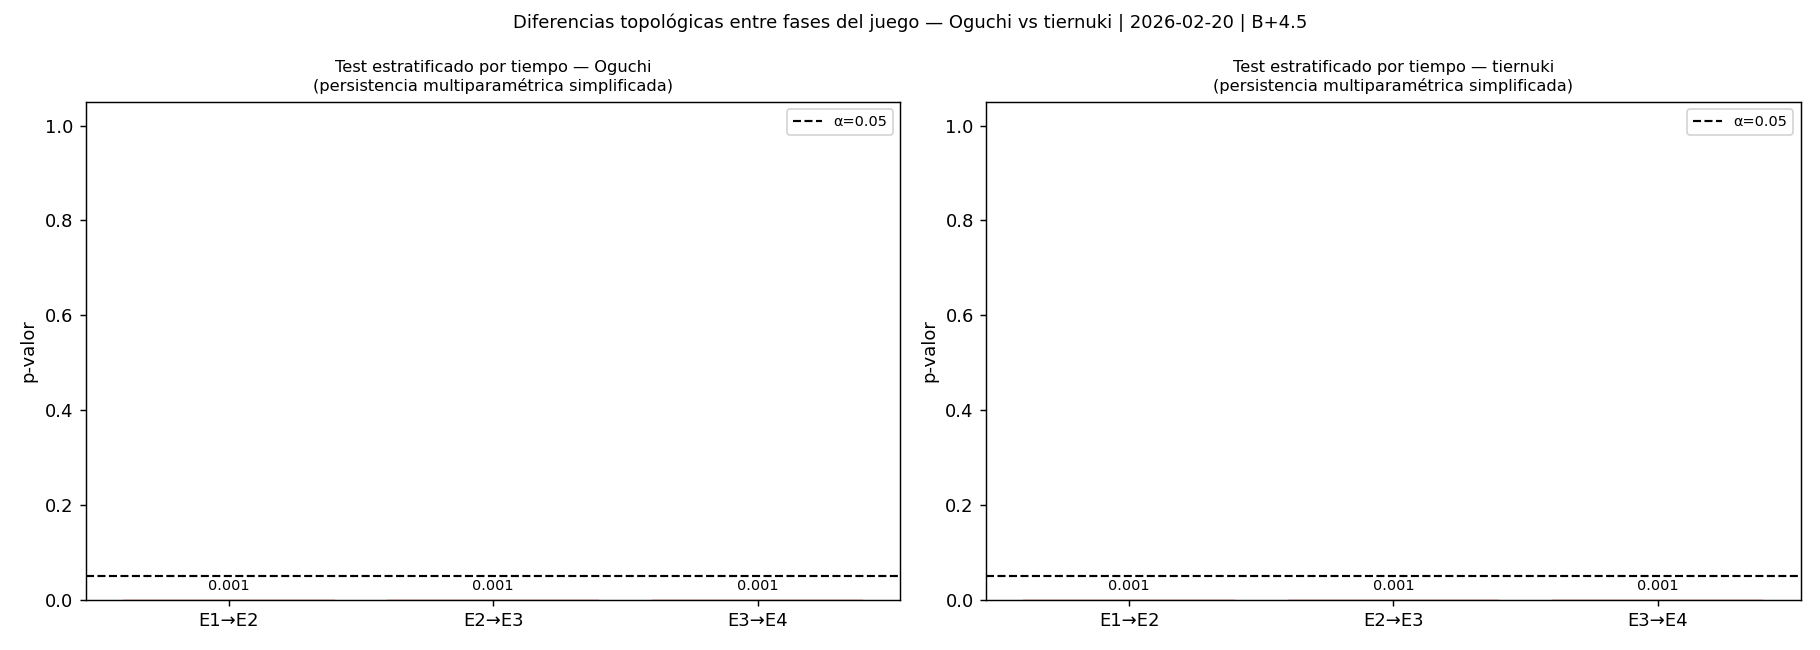
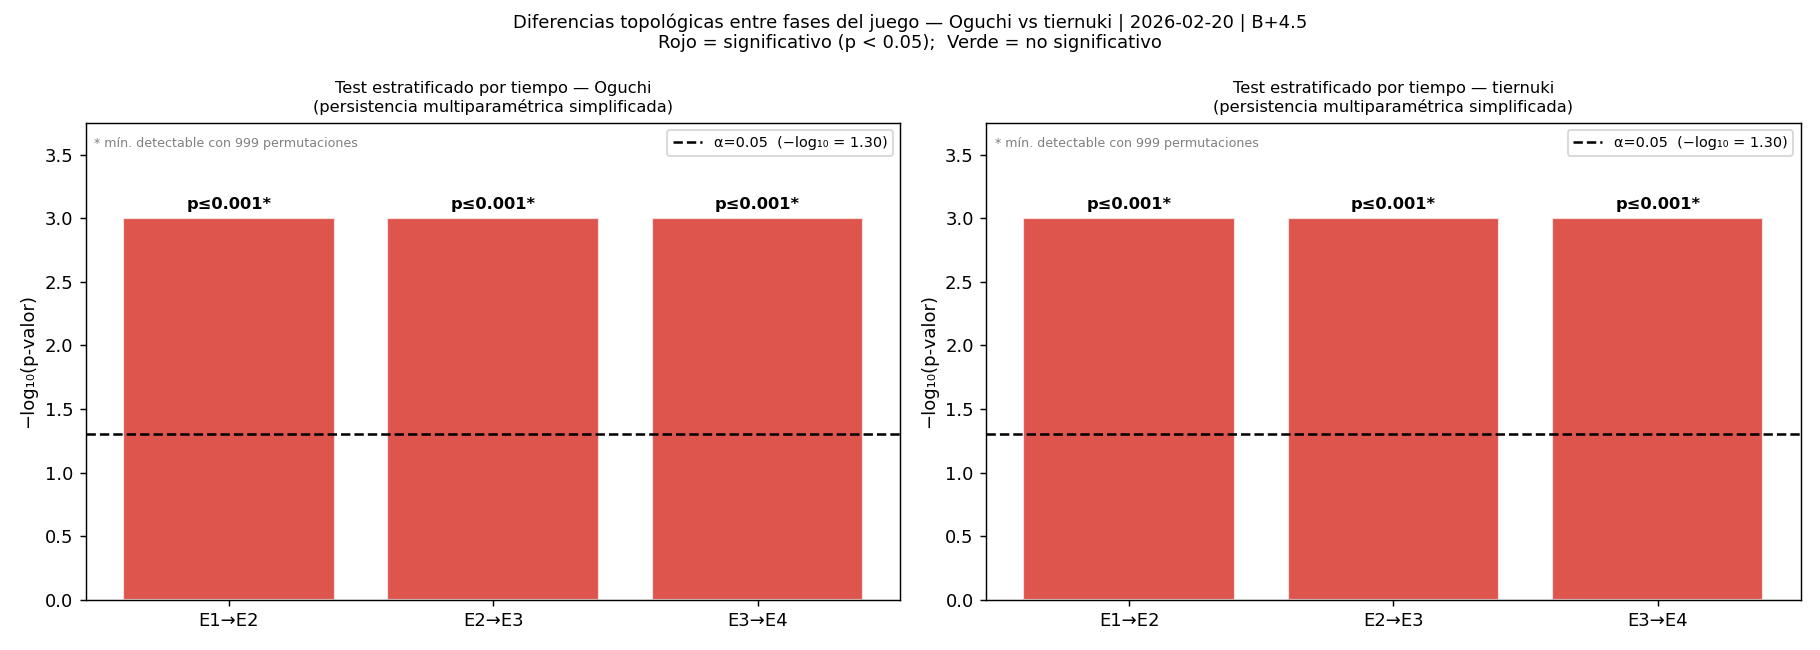
Fix stratified test figure: use -log10(p) axis instead of linear p-value scale
With all p-values at the minimum detectable (0.001 with 999 permutations),
bars were invisible on a 0-1 linear scale. Now uses -log10(p) (standard
Manhattan/volcano plot style): p=0.001 → bar height 3.0, clearly above the
threshold line at -log10(0.05)=1.30. Labels show p≤0.001* with footnote
explaining the permutation floor.

diff --git a/analyze_game.py b/analyze_game.py
@@ -418,9 +418,12 @@ plt.tight_layout()
 plt.savefig(dir_nuevos / "01_ecc_silhouette_transiciones.png", dpi=130)
 plt.close()
 
-# Fig B: test estratificado por tiempo
+# Fig B: test estratificado por tiempo  (-log10 p-value axis)
 if strat_b or strat_w:
     fig_st, axes_st = plt.subplots(1, 2, figsize=(14, 5))
+    _ALPHA = 0.05
+    _THRESHOLD = -np.log10(_ALPHA)          # ≈ 1.30
+    _MIN_P = 1.0 / (N_PERM + 1)            # minimum detectable p-value
     for ax, strat_data, name, col in [
         (axes_st[0], strat_b, BLACK_NAME, BEDGE),
         (axes_st[1], strat_w, WHITE_NAME, WEDGE),
@@ -430,20 +433,35 @@ if strat_b or strat_w:
                     transform=ax.transAxes); continue
         labels_s = [f"E{k+1}→E{k+2}" for k in range(len(strat_data))]
         pvals = [r["p_value"] for r in strat_data]
-        bars = ax.bar(labels_s, pvals, color=[
-            "#d73027" if p < 0.05 else "#4dac26" for p in pvals
-        ], alpha=0.75, edgecolor="white")
-        ax.axhline(0.05, color="black", lw=1.2, ls="--", label="α=0.05")
-        ax.set_ylabel("p-valor"); ax.set_ylim(0, 1.05)
+        # Clamp to minimum detectable to avoid log(0)
+        log_pvals = [-np.log10(max(p, _MIN_P)) for p in pvals]
+        bar_colors = ["#d73027" if p < _ALPHA else "#4dac26" for p in pvals]
+        bars = ax.bar(labels_s, log_pvals, color=bar_colors, alpha=0.82,
+                      edgecolor="white", linewidth=1.2)
+        # Threshold line
+        ax.axhline(_THRESHOLD, color="black", lw=1.4, ls="--",
+                   label=f"α={_ALPHA}  (−log₁₀ = {_THRESHOLD:.2f})")
+        ax.set_ylabel("−log₁₀(p-valor)")
+        y_max = max(log_pvals) * 1.25 if log_pvals else 4
+        ax.set_ylim(0, max(y_max, _THRESHOLD * 1.5))
         ax.set_title(
             f"Test estratificado por tiempo — {name}\n"
             f"(persistencia multiparamétrica simplificada)", fontsize=9
         )
-        for bar, p in zip(bars, pvals):
-            ax.text(bar.get_x() + bar.get_width() / 2, p + 0.02,
-                    f"{p:.3f}", ha="center", fontsize=8)
+        # Annotate with actual p-values
+        for bar, p, lp in zip(bars, pvals, log_pvals):
+            label = f"p={p:.3f}" if p > _MIN_P else f"p≤{_MIN_P:.3f}*"
+            ax.text(bar.get_x() + bar.get_width() / 2, lp + 0.05,
+                    label, ha="center", va="bottom", fontsize=8, fontweight="bold")
         ax.legend(fontsize=8)
-    plt.suptitle(f"Diferencias topológicas entre fases del juego — {TITLE}", fontsize=10)
+        ax.annotate(f"* mín. detectable con {N_PERM} permutaciones",
+                    xy=(0.01, 0.97), xycoords="axes fraction",
+                    fontsize=7, color="gray", va="top")
+    plt.suptitle(
+        f"Diferencias topológicas entre fases del juego — {TITLE}\n"
+        f"Rojo = significativo (p < {_ALPHA});  Verde = no significativo",
+        fontsize=10
+    )
     plt.tight_layout()
     plt.savefig(dir_nuevos / "02_test_estratificado.png", dpi=130)
     plt.close()
